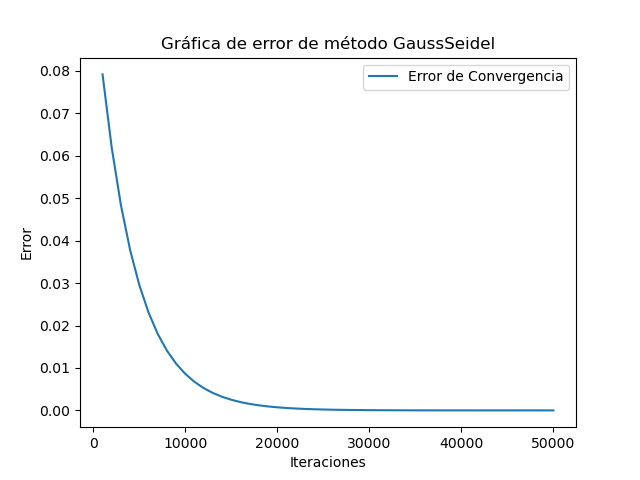
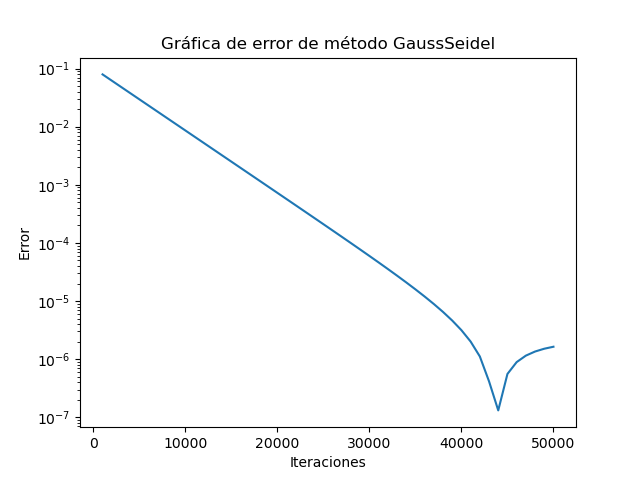
Actualizar Lab10

diff --git a/Laboratorio_10/poisson_1d_GaussSeidel.cpp b/Laboratorio_10/poisson_1d_GaussSeidel.cpp
@@ -155,11 +155,10 @@ int main()
     
     plt::figure();
     
-    plt::plot(malla_T, error_conver, {{"label", "Error de Convergencia"}});
+    plt::semilogy(malla_T, error_conver);
     plt::title("Gráfica de error de método GaussSeidel");
     plt::xlabel("Iteraciones");
     plt::ylabel("Error");
-    plt::legend();
     
     plt::save("error_gaussseidel.png");
     std::cout << "error_gaussseidel.png descargado..." << std::endl;

diff --git a/Laboratorio_10/poisson_1d_Jacobi.cpp b/Laboratorio_10/poisson_1d_Jacobi.cpp
@@ -155,11 +155,10 @@ int main()
     
     plt::figure();
     
-    plt::plot(malla_T, error_conver, {{"label", "Error de Convergencia"}});
+    plt::semilogy(malla_T, error_conver);
     plt::title("Gráfica de error de método Jacobi");
     plt::xlabel("Iteraciones");
     plt::ylabel("Error");
-    plt::legend();
     
     plt::save("error_jacobi.png");
     std::cout << "error_jacobi.png descargado..." << std::endl;
